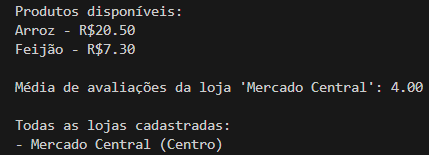
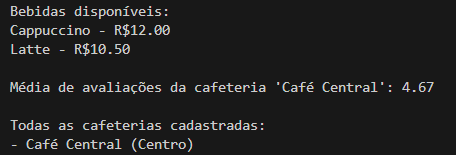
Ajustes código facade

diff --git a/test_facade.py b/test_facade.py
@@ -69,35 +69,36 @@ class GestaoEstabelecimento:
 
 gestao = GestaoEstabelecimento()
 
-# Cadastrando um lojista
-lojista = Lojista("João")
-gestao.cadastrarLojista(lojista)
+# Cadastrando um barista (lojista)
+barista = Lojista("Ana")
+gestao.cadastrarLojista(barista)
 
-# Criando e adicionando uma loja
-loja = Estabelecimento("Mercado Central", "Centro")
-lojista.criar_loja(loja)
-gestao.adicionarEstabelecimento(loja)
+# Criando e adicionando uma cafeteria
+cafeteria = Estabelecimento("Café Central", "Centro")
+barista.criar_loja(cafeteria)
+gestao.adicionarEstabelecimento(cafeteria)
 
-# Adicionando produtos à loja
-p1 = Produto("Arroz", 20.50, loja)
-p2 = Produto("Feijão", 7.30, loja)
-gestao.cadastrarProduto(p1, loja)
-gestao.cadastrarProduto(p2, loja)
+# Adicionando produtos ao cardápio da cafeteria
+bebida1 = Produto("Cappuccino", 12.00, cafeteria)
+bebida2 = Produto("Latte", 10.50, cafeteria)
+gestao.cadastrarProduto(bebida1, cafeteria)
+gestao.cadastrarProduto(bebida2, cafeteria)
 
-# Adicionando avaliações
-loja.adicionar_avaliacao(4)
-loja.adicionar_avaliacao(5)
-loja.adicionar_avaliacao(3)
+# Adicionando avaliações dos clientes
+cafeteria.adicionar_avaliacao(5)
+cafeteria.adicionar_avaliacao(4)
+cafeteria.adicionar_avaliacao(5)
 
-# Exibindo produtos
-print("Produtos disponíveis:")
-for produto in gestao.exibirProdutos(loja):
+# Exibindo o cardápio
+print("Bebidas disponíveis:")
+for produto in gestao.exibirProdutos(cafeteria):
     print(produto.exibir_resumo())
 
 # Mostrando média de avaliações
-print(f"\nMédia de avaliações da loja '{loja.nome}': {gestao.obterMediaAvaliacoes(loja)}")
+print(f"\nMédia de avaliações da cafeteria '{cafeteria.nome}': {gestao.obterMediaAvaliacoes(cafeteria)}")
 
-# Listando todas as lojas
-print("\nTodas as lojas cadastradas:")
+# Listando todas as cafeterias cadastradas
+print("\nTodas as cafeterias cadastradas:")
 for l in gestao.listarTodasLojas():
     print(f"- {l.nome} ({l.localizacao})")
+

diff --git a/docs/PadroesDeProjeto/3.2.3.Facade.md b/docs/PadroesDeProjeto/3.2.3.Facade.md
@@ -125,38 +125,39 @@ class GestaoEstabelecimento:
 
 gestao = GestaoEstabelecimento()
 
-# Cadastrando um lojista
-lojista = Lojista("João")
-gestao.cadastrarLojista(lojista)
+# Cadastrando um barista (lojista)
+barista = Lojista("Ana")
+gestao.cadastrarLojista(barista)
 
-# Criando e adicionando uma loja
-loja = Estabelecimento("Mercado Central", "Centro")
-lojista.criar_loja(loja)
-gestao.adicionarEstabelecimento(loja)
+# Criando e adicionando uma cafeteria
+cafeteria = Estabelecimento("Café Central", "Centro")
+barista.criar_loja(cafeteria)
+gestao.adicionarEstabelecimento(cafeteria)
 
-# Adicionando produtos à loja
-p1 = Produto("Arroz", 20.50, loja)
-p2 = Produto("Feijão", 7.30, loja)
-gestao.cadastrarProduto(p1, loja)
-gestao.cadastrarProduto(p2, loja)
+# Adicionando produtos ao cardápio da cafeteria
+bebida1 = Produto("Cappuccino", 12.00, cafeteria)
+bebida2 = Produto("Latte", 10.50, cafeteria)
+gestao.cadastrarProduto(bebida1, cafeteria)
+gestao.cadastrarProduto(bebida2, cafeteria)
 
-# Adicionando avaliações
-loja.adicionar_avaliacao(4)
-loja.adicionar_avaliacao(5)
-loja.adicionar_avaliacao(3)
+# Adicionando avaliações dos clientes
+cafeteria.adicionar_avaliacao(5)
+cafeteria.adicionar_avaliacao(4)
+cafeteria.adicionar_avaliacao(5)
 
-# Exibindo produtos
-print("Produtos disponíveis:")
-for produto in gestao.exibirProdutos(loja):
+# Exibindo o cardápio
+print("Bebidas disponíveis:")
+for produto in gestao.exibirProdutos(cafeteria):
     print(produto.exibir_resumo())
 
 # Mostrando média de avaliações
-print(f"\nMédia de avaliações da loja '{loja.nome}': {gestao.obterMediaAvaliacoes(loja)}")
+print(f"\nMédia de avaliações da cafeteria '{cafeteria.nome}': {gestao.obterMediaAvaliacoes(cafeteria)}")
 
-# Listando todas as lojas
-print("\nTodas as lojas cadastradas:")
+# Listando todas as cafeterias cadastradas
+print("\nTodas as cafeterias cadastradas:")
 for l in gestao.listarTodasLojas():
-    print(f"- {l.nome} ({l.localizacao})") 
+    print(f"- {l.nome} ({l.localizacao})")
+
 ```
 
 ## Teste de Logs e Print Final
@@ -191,3 +192,4 @@ A aplicação do padrão de projeto Facade mostrou-se eficaz na simplificação 
 |--------|------------|------------------------|------------------|-------------------|------------------|
 | `1.0` | 02/06/2025  | Criação do documento e conteúdo. |[João Vitor](https://github.com/Joa0V) |  | |
 | `1.1`  | 02/06/2025 | Adição da implementação em Python | [Gustavo Alves](https://github.com/gustaallves) | |   |
+| `1.2`  | 02/06/2025 | Ajuste no código | [Gustavo Alves](https://github.com/gustaallves) | |   |
